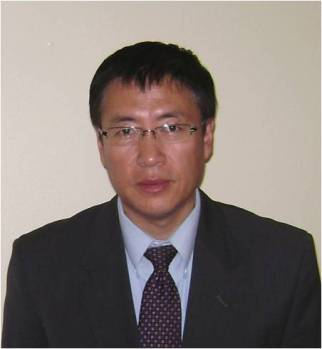
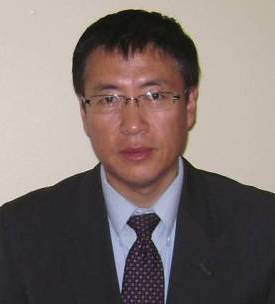
Almost final

diff --git a/index.html b/index.html
@@ -6,7 +6,7 @@
 -->
 <html>
 	<head>
-		<title>MGRC</title>
+		<title>MGRG</title>
 		<meta http-equiv="content-type" content="text/html; charset=utf-8" />
 		<meta name="description" content="" />
 		<meta name="keywords" content="" />
@@ -45,9 +45,13 @@
 						</div>
 						<div class="8u">
 							<header>
-								<a href="http://www.medschool.lsuhsc.edu/" style="text-decoration: None"><h1>LSUHSC School of Medicine</h1></a><h2><strong>Microbial Genomics Resource Center</strong></h2>
+								<a href="http://www.medschool.lsuhsc.edu/" style="text-decoration: None"><h1>LSUHSC School of Medicine</h1></a><h2><strong>Microbial Genomics Resource Group</strong></h2>
 							</header>
-							<p>IPhone Tumblr hashtag Portland, Banksy small batch lo-fi McSweeney's Shoreditch tattooed craft beer put a bird on it scenester. Drinking vinegar trust fund squid, Neutra fixie Austin hoodie  banjo. Wolf pour-over jean shorts Brooklyn Shoreditch, Banksy meggings. Tilde retro Shoreditch freegan, trust fund Portland paleo Bushwick High Life. Truffaut kale chips PBR YOLO.</p>
+						</div>
+					</div>
+					<div class="row">
+						<div class="12u">
+							<p>The Microbial Genomics Resource Group (MGRG) within the LSU Health Sciences Center School of Medicine operates in a highly collaborative fashion.  Our mission is to promote genomics-based research involving microbial communities as well as specific microorganisms and we function as a School of Medicine research resource.  While our primary desire is to interact with other researchers in a collaborative fashion to assist with study design, assay development, molecular biology, analysis and interpretation to ensure successful projects, the MGRG provides technical services on a fee-for-service basis as well.  Technical resources include Illumina MiSeq sequencing-by-synthesis for 16S based phylogenetic and metatranscriptomic analyses.  Our facility is fully equipped and staffed to be able to accept either raw clinical samples or isolated nucleic acids, perform rDNA PCR and prepare libraries as well as complete the sequencing.  We also offer full bioinformatics analysis capabilities.</p>
 							<!--<a href="#work" class="button big scrolly">Learn about what we do</a>-->
 						</div>
 					</div>
@@ -59,7 +63,7 @@
 				<article id="who">
 					<header>
 						<h2>Who we are</h2>
-						<p>A group of upstanding, smart, good looking people!</p>
+						<!-- <p>A group of upstanding, smart, good looking people!</p> -->
 					</header>
 					<div class="container">
 						<div class="row">
@@ -67,28 +71,28 @@
 								<section class="box style2">
 									<span class="image fit"><a href="https://www.medschool.lsuhsc.edu/internal_medicine/faculty_detail.aspx?name=welsh_david"><img src="images/welsh.jpg" alt="" /></a></span>
 									<a href="https://www.medschool.lsuhsc.edu/internal_medicine/faculty_detail.aspx?name=welsh_david"><h3>David Welsh, MD</h3></a>
-									<p>Ornare nulla proin odio consequat sapien vestibulum ipsum primis sed amet consequat lorem dolore.</p>
+									<p>Project Design</p>
 								</section>
 							</div>
 							<div class="3u">
 								<section class="box style2">
-									<span class="image fit"><a href="https://www.medschool.lsuhsc.edu/microbiology/faculty_detail.aspx?name=taylor_christopher"><img src="images/chris.jpg" alt="" /></a></span>
-									<a href="https://www.medschool.lsuhsc.edu/microbiology/faculty_detail.aspx?name=taylor_christopher"><h3>Christopher Taylor, PhD</h3></a>
-									<p>Ornare nulla proin odio consequat sapien vestibulum ipsum primis sed amet consequat lorem dolore.</p>
+									<span class="image fit"><a href="https://www.medschool.lsuhsc.edu/microbiology/faculty_detail.aspx?name=taylor_christopher"><img src="images/ChrisPhotoedit.jpeg" alt="" /></a></span>
+									<a href="https://www.medschool.lsuhsc.edu/microbiology/faculty_detail.aspx?name=taylor_christopher"><h3>Chris Taylor, PhD</h3></a>
+									<p>Computational Biology</p>
 								</section>
 							</div>
 							<div class="3u">
 								<section class="box style2">
 									<span class="image fit"><a href="http://www.medschool.lsuhsc.edu/microbiology/faculty_detail.aspx?name=Luo_Meng"><img src="images/meng.jpg" alt="" /></a></span>
 									<a href="http://www.medschool.lsuhsc.edu/microbiology/faculty_detail.aspx?name=Luo_Meng"><h3>Meng Luo, PhD</h3></a>
-									<p>Ornare nulla proin odio consequat sapien vestibulum ipsum primis sed amet consequat lorem dolore.</p>
+									<p>Molecular Biology</p>
 								</section>
 							</div>
 							<div class="3u">
 								<section class="box style2">
-									<span class="image fit"><a href="http://www.geneblanchard.com"><img src="images/intheface2.png" alt="" /></a></span>
+									<span class="image fit"><a href="http://www.geneblanchard.com"><img src="images/gene1.jpg" alt="" /></a></span>
 									<a href="http://www.geneblanchard.com"><h3>Gene Blanchard</h3></a>
-									<p>Ornare nulla proin odio consequat sapien vestibulum ipsum primis sed amet consequat lorem dolore.</p>
+									<p>Bioinformatics</p>
 								</section>
 							</div>
 						</div>
@@ -104,11 +108,11 @@
 			<div class="wrapper style3">
 				<div id="portfolio">
 					<header>
-						<h2>Selected publications.</h2>
+						<h2>Selected publications</h2>
 						<!-- <p>Proin odio consequat  sapien vestibulum consequat lorem dolore feugiat lorem ipsum dolore.</p> -->
 					</header>
-					<div class="container" id="pubs">
-						<div class="row" >
+					<div class="container" >
+						<div class="row" id="pubs">
 							<div class="3u" >
 								<div class="box style2" >
 									<span class="image featured"><img src="images/biopsych.jpeg" alt="" /></span>
@@ -156,7 +160,7 @@
 					<div>
 						<div class="row">
 							<div class="12u">
-								<form method="post" action="#">
+								<form method="post" action="mailto:eblan2@lsuhsc.edu">
 									<div>
 										<div class="row">
 											<div class="6u">
@@ -188,36 +192,9 @@
 								</form>
 							</div>
 						</div>
-						<!--
-						<div class="row">
-							<div class="12u">
-								<hr />
-								<h3>Find me on ...</h3>
-								<ul class="social">
-									<li><a href="#" class="icon fa-twitter"><span class="label">Twitter</span></a></li>
-									<li><a href="#" class="icon fa-facebook"><span class="label">Facebook</span></a></li>
-									<li><a href="#" class="icon fa-dribbble"><span class="label">Dribbble</span></a></li>
-									<li><a href="#" class="icon fa-linkedin"><span class="label">LinkedIn</span></a></li>
-									<li><a href="#" class="icon fa-tumblr"><span class="label">Tumblr</span></a></li>
-									<li><a href="#" class="icon fa-google-plus"><span class="label">Google+</span></a></li>
-									<li><a href="#" class="icon fa-github"><span class="label">Github</span></a></li>
-									<li><a href="#" class="icon fa-rss"><span>RSS</span></a></li>
-									<li><a href="#" class="icon fa-instagram"><span>Instagram</span></a></li>
-									<li><a href="#" class="icon fa-foursquare"><span>Foursquare</span></a></li>
-									<li><a href="#" class="icon fa-skype"><span>Skype</span></a></li>
-									<li><a href="#" class="icon fa-soundcloud"><span>Soundcloud</span></a></li>
-									<li><a href="#" class="icon fa-youtube"><span>YouTube</span></a></li>
-									<li><a href="#" class="icon fa-blogger"><span>Blogger</span></a></li>
-									<li><a href="#" class="icon fa-flickr"><span>Flickr</span></a></li>
-									<li><a href="#" class="icon fa-vimeo"><span>Vimeo</span></a></li>
-								</ul>
-								<hr />
-							</div>
-						</div>
-					</div>
-					-->
+
 					<footer>
-						<span>LSU Health Sciences Center - New Orleans<br>433 Bolivar Street<br>New Orleans, LA  70112<br>(504) 568-4808<br></span>
+						<span>LSU Health Sciences Center - New Orleans<br>433 Bolivar Street<br>New Orleans, LA  70112<br><br></span>
 						<span><a href="http://www.lsuhsc.edu/disclaimer.aspx">Disclaimer</a><br><a href="http://www.lsuhsc.edu/privacypolicy.aspx">Privacy Policy</a><br></span>
 						<ul id="copyright">
 							<li>&copy; Gene Blanchard. All rights reserved.</li>

diff --git a/css/style.css b/css/style.css
@@ -546,9 +546,12 @@
 			
 		.box
 		{
-			background: #fff;
-			box-shadow: inset 0px 0px 0px 1px rgba(0,0,0,0.15), 0px 2px 3px 0px rgba(0,0,0,0.1);
-			text-align: center;
+			/*background: #fff;*/
+			/*box-shadow: inset 0px 0px 0px 1px rgba(0,0,0,0.15), 0px 2px 3px 0px rgba(0,0,0,0.1);*/
+			/*text-align: center;*/
+			border-radius: 4px;
+			border: solid 1px rgba(144,144,144,0.24);
+			margin-bottom: 2em
 		}
 
 /*********************************************************************************/
@@ -644,7 +647,7 @@
 			.wrapper.style4 form textarea
 			{
 				border: none;
-				background: #282828;
+				background: #A1A1A1;
 			}
 
 			.wrapper.style4 form input[type=text]:focus,
@@ -652,7 +655,8 @@
 			.wrapper.style4 form select:focus,
 			.wrapper.style4 form textarea:focus
 			{
-				background: #252525;
+				background: #A1A1A1;
+				color: black;
 			}
 		
 /*********************************************************************************/
@@ -724,15 +728,24 @@
 			#top .image img
 			{
 				border-radius: 100;
+				width: 80%;
 			}
 
 		#top p
 		{
+			text-align: justify;
+		    text-justify: inter-word;
 		}
 	
 			#top p a
 			{
 				color: #888;
+			}
+		#top header
+			{
+				margin-top: 5em;
+				font-size: 1em;
+
 			}
 
 /*********************************************************************************/
@@ -759,3 +772,12 @@
 		{
 			color: #777;
 		}
+/*********************************************************************************/
+/* Mailto                                                                      */
+/*********************************************************************************/
+	
+	#mailto{
+		border: none;
+		background: #A1A1A1;
+		color: white;
+	}
